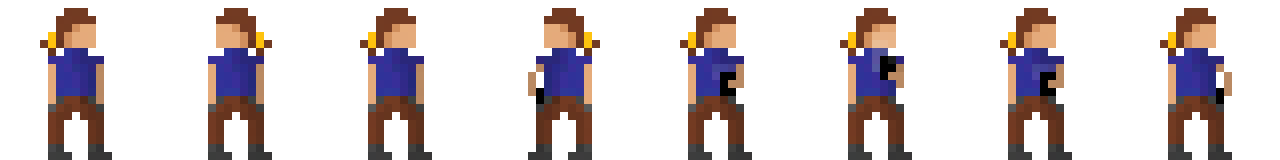
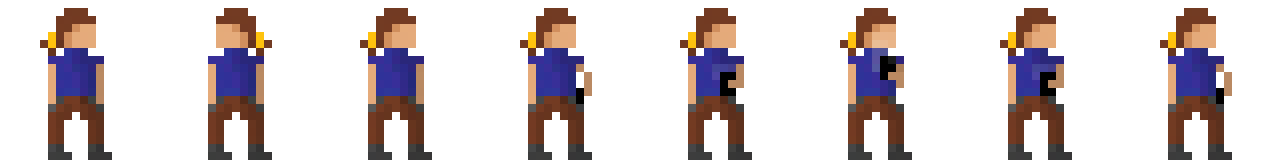
Ajout de l'animation idle par un sprite sheet

Changed region(s): [[0.4062, 0.0625, 0.4688, 0.9688]]

diff --git a/src/Player.cpp b/src/Player.cpp
@@ -13,18 +13,22 @@
 //! Constructor
 //! \param gameCore The game core which sends the key events
 Player::Player(GameCore *gameCore, QGraphicsItem *parent) : PhysicsEntity(parent) {
-    // Set animations
-    addAnimationFrame(QPixmap(QDir::toNativeSeparators(GameFramework::resourcesPath() + "/images/base-player.png")));
-    addAnimation();
-    setActiveAnimation(1);
-    addAnimationFrame(QPixmap(QDir::toNativeSeparators(GameFramework::resourcesPath() + "/images/base-player-flipped.png")));
+    // Create animations
+    // Idle animation
+    QImage image(QDir::toNativeSeparators(GameFramework::imagesPath() + "/idle-player.png"));
+    int frameWidth = image.width() / IDLE_ANIMATION_FRAME_COUNT;
+    for (int i = 0; i < IDLE_ANIMATION_FRAME_COUNT; i++) {
+        addAnimationFrame(QPixmap::fromImage(image.copy(i * frameWidth, 0, frameWidth, image.height())),
+                          IDLE_ANIMATION_FRAME_DURATIONS[i]);
+    }
+
     startAnimation();
 
     // Set friction
     friction = PLAYER_FRICTION_OVERRIDE;
     gravity = PLAYER_GRAVITY_OVERRIDE;
 
-    // Set collisons
+    // Set collisions
     addCollidingClass("AdvancedCollisionSprite");
 
     // Connect the key events to the player

diff --git a/src/sprite.cpp b/src/sprite.cpp
@@ -30,7 +30,7 @@ Sprite::Sprite(QGraphicsItem* pParent) : QGraphicsPixmapItem(pParent) {
 //! \param pParent   Pointeur sur le parent (afin d'obtenir une destruction automatique de cet objet).
 Sprite::Sprite(const QPixmap& rPixmap, QGraphicsItem* pParent) : QGraphicsPixmapItem(pParent) {
     init();
-    addAnimationFrame(rPixmap);
+    addAnimationFrame(rPixmap,0);
 }
 
 //! Construit un sprite et l'initialise.

diff --git a/src/Player.h b/src/Player.h
@@ -42,6 +42,10 @@ private:
     float prevWalkDirection = 0;
     float walkDirection = 0;
 
+    // Array of animation frame durations for the idle animation
+    static const int IDLE_ANIMATION_FRAME_COUNT = 8;
+    const int IDLE_ANIMATION_FRAME_DURATIONS[IDLE_ANIMATION_FRAME_COUNT] = {2000, 2000, 1500, 125, 125, 2500, 125, 125};
+
     void jump();
 
 private slots:
